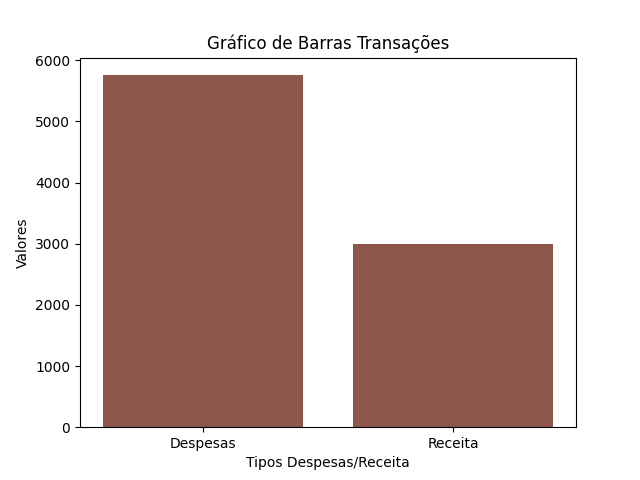
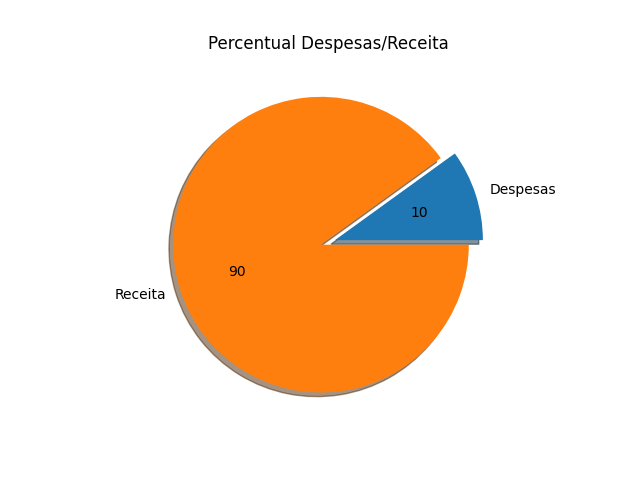
criando as transacoes financeiras separas

diff --git a/financeiro/templates/lista_receita.html b/financeiro/templates/lista_receita.html
@@ -1,0 +1,56 @@
+{% extends 'base.html' %} 
+{% load crispy_forms_tags %}
+
+ 
+ {% block content  %}
+ <div class="row">
+    <div class="col-md-10 mx-auto">
+        <h2><small class="text-dark" "text-center"></small>DESPESAS</h2>
+        <hr>
+        <h3><small class="text-dark" "text-center"></small>Search </h3>
+        <input class="form-control" type="text" value="Pesquisar Transação..." aria-label="readonly input example" readonly>
+        <hr>
+        <a href="{% url "financeiro:cadastro" %}"class="btn btn-outline-primary">Adicionar Transação</a>
+        <table class='table table-sm table-primary table-striped table-bordered table-condensed table-hover'>
+          <thead>
+              <tr>
+                <th scope="col">Descrição</th>
+                <th scope="col">Categoria</th>
+                <th scope="col">Valor</th>
+                <th scope="col">Data</th>
+                <th scope="col">Tipo Transação</th>
+                <th scope="col">Opções</th>
+              </tr>
+            </thead>
+            
+    <tbody>
+        {% for l in lista %}
+              <tr>
+                <td>{{ l.description }}</td>
+                <td>{{ l.category }}</td>
+                <td>{{ l.amount }}</td>
+                <td>{{ l.transaction_date }}</td>
+                <td>{{ l.transaction_type}}</td>
+                <td><div class="btn-group" role="group">
+                    <button type="button" class="btn btn-outline-primary dropdown-toggle" data-bs-toggle="dropdown" aria-expanded="false">
+                      Opções
+                    </button>
+                    <ul class="dropdown-menu">
+                      <li><a class="dropdown-item" href="{% url "financeiro:update_transacao" l.pk %}">Editar</a></li>
+                      <li><a class="dropdown-item" href="{% url "financeiro:excluir_transacao" l.pk %}">Excluir</a></li>
+                    </ul>
+                  </div>
+                </td>
+              </tr>
+        {% empty%}
+            <tr>
+                <td colspan=" 5">Nenhum campo registrado</td>
+            </tr>
+        {% endfor %}
+        
+    </tbody>
+    </table>
+    </div>
+</div>
+
+  {% endblock  %} 

diff --git a/financeiro/templates/lista_despesa.html b/financeiro/templates/lista_despesa.html
@@ -1,0 +1,56 @@
+{% extends 'base.html' %} 
+{% load crispy_forms_tags %}
+
+ 
+ {% block content  %}
+ <div class="row">
+    <div class="col-md-10 mx-auto">
+        <h2><small class="text-dark" "text-center"></small>RECEITA</h2>
+        <hr>
+        <h3><small class="text-dark" "text-center"></small>Search </h3>
+        <input class="form-control" type="text" value="Pesquisar Transação..." aria-label="readonly input example" readonly>
+        <hr>
+        <a href="{% url "financeiro:cadastro" %}"class="btn btn-outline-primary">Adicionar Transação</a>
+        <table class='table table-sm table-danger table-striped table-bordered table-condensed table-hover'>
+          <thead>
+              <tr>
+                <th scope="col">Descrição</th>
+                <th scope="col">Categoria</th>
+                <th scope="col">Valor</th>
+                <th scope="col">Data</th>
+                <th scope="col">Tipo Transação</th>
+                <th scope="col">Opções</th>
+              </tr>
+            </thead>
+            
+    <tbody>
+        {% for l in lista %}
+              <tr>
+                <td>{{ l.description }}</td>
+                <td>{{ l.category }}</td>
+                <td>{{ l.amount }}</td>
+                <td>{{ l.transaction_date }}</td>
+                <td>{{ l.transaction_type}}</td>
+                <td><div class="btn-group" role="group">
+                    <button type="button" class="btn btn-outline-primary dropdown-toggle" data-bs-toggle="dropdown" aria-expanded="false">
+                      Opções
+                    </button>
+                    <ul class="dropdown-menu">
+                      <li><a class="dropdown-item" href="{% url "financeiro:update_transacao" l.pk %}">Editar</a></li>
+                      <li><a class="dropdown-item" href="{% url "financeiro:excluir_transacao" l.pk %}">Excluir</a></li>
+                    </ul>
+                  </div>
+                </td>
+              </tr>
+        {% empty%}
+            <tr>
+                <td colspan=" 5">Nenhum campo registrado</td>
+            </tr>
+        {% endfor %}
+        
+    </tbody>
+    </table>
+    </div>
+</div>
+
+  {% endblock  %} 

diff --git a/financeiro/templates/dashboard.html b/financeiro/templates/dashboard.html
@@ -40,6 +40,7 @@
             </div>
           </div>  
     </div>
+    
    <hr>
     <div class="col-md-10 mx-auto">
         <div class="table-responsive">
@@ -125,11 +126,27 @@
         </table>
     </div>
     </div>
+
 </div>
 <hr>
-<div id="chart-container" class="rounded float-start">
-    <img src="{% url 'financeiro:chart_image' %}" alt="Gráfico de Barras">
+<div class="row">
+  <div class="col-sm-4">
+    <div class="card">
+      <img src="{% url "financeiro:chart_image" %}" class="card-img-top" alt="...">
+      <div class="card-body">
+        <h5 class="card-title">Special title treatment</h5>
+        <p class="card-text">With supporting text below as a natural lead-in to additional content.</p>
+      </div>
+    </div>
+  </div>
+  <div class="col-sm-4">
+    <div class="card">
+      <img src="{% url "financeiro:chart_image" %}" class="card-img-top" alt="...">
+      <div class="card-body">
+        <h5 class="card-title">Grafico de transacao (Despesas/Receita)</h5>
+        <p class="card-text">With supporting text below as a natural lead-in to additional content.</p>
+      </div>
+    </div>
+  </div>
 </div>
-
-
 {% endblock %}

diff --git a/templates/base.html b/templates/base.html
@@ -48,10 +48,10 @@
                                 <i class="fs-4 bi-grid"></i> <span class="ms-1 d-none d-sm-inline">Transações</span> </a>
                                 <ul class="collapse nav flex-column ms-1" id="submenu3" data-bs-parent="#menu">
                                 <li class="w-100">
-                                    <a href="{% url "financeiro:chart_image" %}" class="nav-link px-0"> <span class="d-none d-sm-inline">Acessar Despesas</span> </a>
+                                    <a href="{% url "financeiro:lista_despesa" %}" class="nav-link px-0"> <span class="d-none d-sm-inline">Acessar Despesas</span> </a>
                                 </li>
                                 <li>
-                                    <a href="#" class="nav-link px-0"> <span class="d-none d-sm-inline">Acessar Receitas</span> </a>
+                                    <a href="{% url "financeiro:lista_receita" %}" class="nav-link px-0"> <span class="d-none d-sm-inline">Acessar Receitas</span> </a>
                                 </li>
                                 
                             </ul>

diff --git a/financeiro/views.py b/financeiro/views.py
@@ -53,6 +53,18 @@ class ListaDashboard(LoginRequiredMixin, ListView):
     template_name = "dashboard.html"
 
 
+def list_despesas(request):
+    lista = Transaction.objects.filter(transaction_type="Despesas")
+    context = {"lista": lista}
+    return render(request, "lista_despesa.html", context)
+
+
+def list_receita(request):
+    lista = Transaction.objects.filter(transaction_type="Receita")
+    context = {"lista": lista}
+    return render(request, "lista_receita.html", context)
+
+
 # Função para criar o gráfico de barras
 def create_bar_chart():
     # Chama a função soma_transacao, que retorna um contexto com informações de despesas e receitas
@@ -67,15 +79,12 @@ def create_bar_chart():
     # Define os rótulos (labels) e os valores para o gráfico
     labels = ["Despesas", "Receita"]
     values = [soma_despesas, soma_receitas]
-
+    destaques = [0.05, 0.05]
     # Cria o gráfico de barras
-    plt.bar(labels, values)
+    plt.pie(values, labels=labels, autopct="%1.f", explode=destaques, shadow=True)
 
     # Adiciona rótulos e título ao gráfico
-    plt.xlabel("Tipos Despesas/Receita")
-    plt.ylabel("Valores")
-    plt.title("Gráfico de Barras Transações")
-
+    plt.title("Percentual Despesas/Receita")
     # Salva o gráfico como um arquivo de imagem PNG
     plt.savefig("static/bar_chart.png")
 

diff --git a/financeiro/urls.py b/financeiro/urls.py
@@ -8,6 +8,8 @@ urlpatterns = [
     path("", views.Homepage.as_view(), name="index"),
     path("cadastro", views.CadastroTransacao.as_view(), name="cadastro"),
     path("lista_transacao", views.ListaTransacao.as_view(), name="lista_transacao"),
+    path("lista_despesa", views.list_despesas, name="lista_despesa"),
+    path("lista_receita", views.list_receita, name="lista_receita"),
     path(
         "update_transacao/<int:pk>/",
         views.UpdateTransacao.as_view(),
